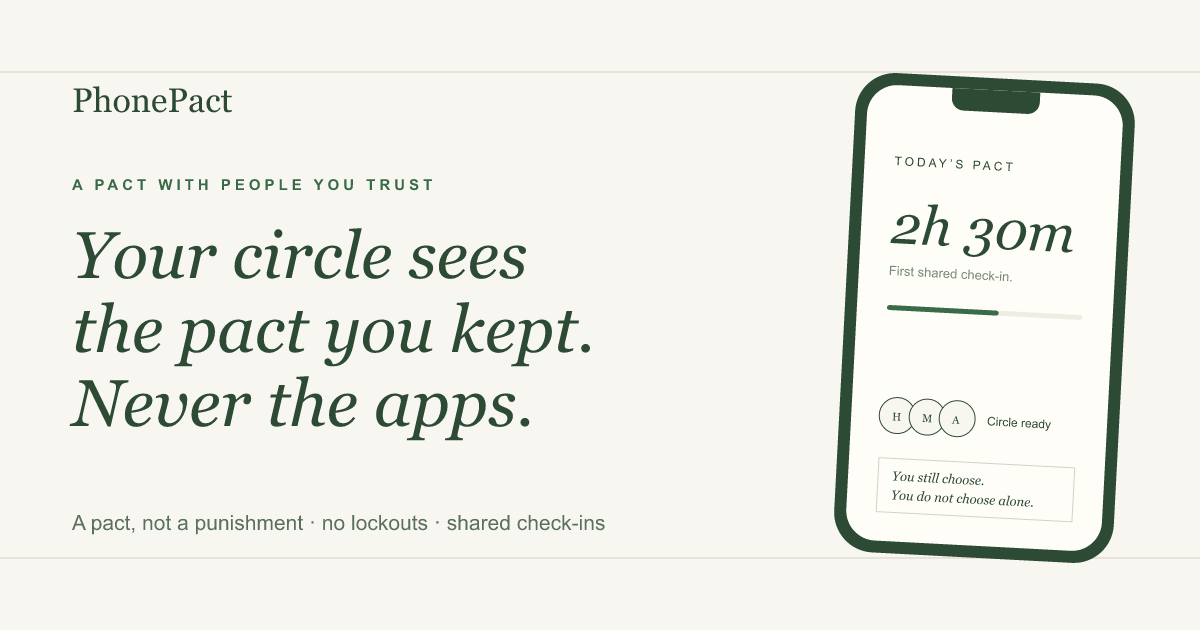
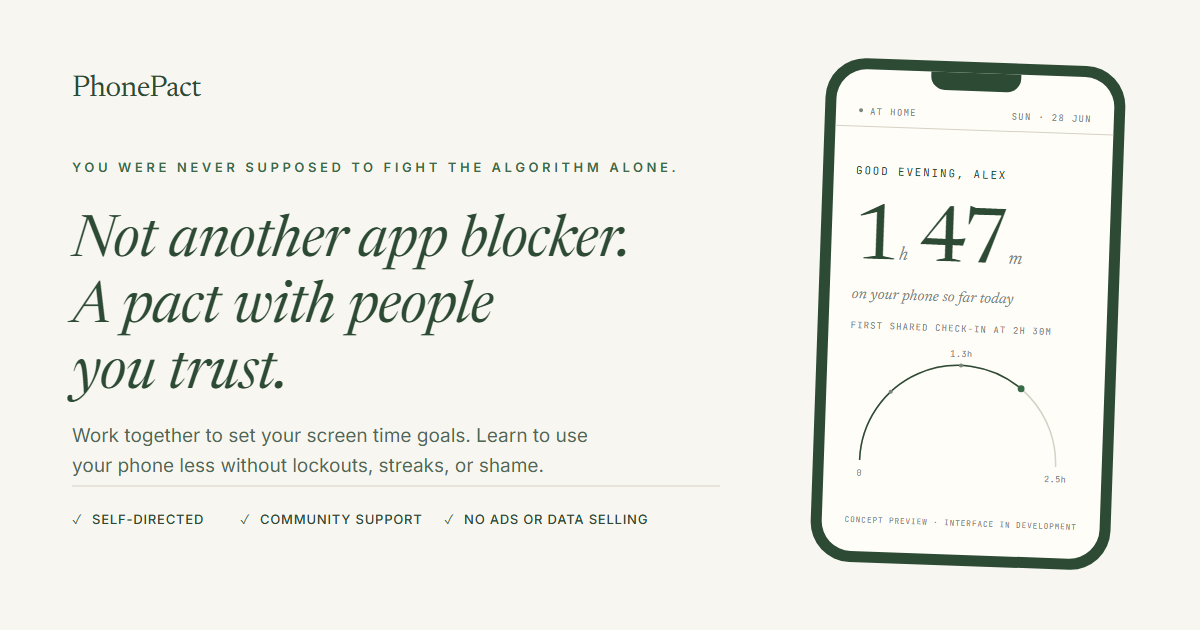
The card opens with the line the slides open with
social-preview.svg is redrawn to match the homepage hero as it now stands:
"You were never supposed to fight the algorithm alone" above "Not another app
blocker. A pact with people you trust", the three principles, and a phone
showing 1h 47m with the first shared check-in at 2h 30m. Every colour is a
:root token from styles.css and every face is the site's own Newsreader /
Inter / JetBrains Mono - the card is not allowed its own palette.

The phone is captioned CONCEPT PREVIEW - INTERFACE IN DEVELOPMENT, which is
the honest label for a drawn UI on a marketing surface.

Cache bust ?v=2 -> ?v=3 across every og:image and twitter:image. The bust is
the whole point of the commit: Twitter, iMessage and Slack cache by URL, so a
re-rendered PNG at an unchanged URL is a card nobody sees change.

social-preview.png is re-rendered from the SVG. The PNG is what actually
ships - nothing serves the SVG - and it must be rendered through an HTML
wrapper with a virtual-time budget, or the screenshot lands before the
webfonts arrive and the card goes out in Georgia and Arial.

diff --git a/blog/why-you-bypass-your-own-app-blocker.html b/blog/why-you-bypass-your-own-app-blocker.html
@@ -4,13 +4,13 @@
 <meta charset="utf-8"/>
 <meta name="viewport" content="width=device-width, initial-scale=1"/>
 <title>Why You Bypass Your Own App Blocker (Every Single Time)</title>
-<meta property="og:image" content="https://getphonepact.com/assets/social-preview.png?v=2"/>
+<meta property="og:image" content="https://getphonepact.com/assets/social-preview.png?v=3"/>
 <meta property="og:image:width" content="1200"/>
 <meta property="og:image:height" content="630"/>
 <meta name="twitter:card" content="summary_large_image"/>
 <meta name="twitter:title" content="Why You Bypass Your Own App Blocker (Every Single Time)"/>
 <meta name="twitter:description" content="It&#x27;s called &quot;Ignore Limit&quot; on one screen and &quot;Forgot Passcode?&quot; on another. Same button, same ending. Why every blocker ships with its own defeat built in, and what has nothing to press."/>
-<meta name="twitter:image" content="https://getphonepact.com/assets/social-preview.png?v=2"/>
+<meta name="twitter:image" content="https://getphonepact.com/assets/social-preview.png?v=3"/>
 <meta name="description" content="It&#x27;s called &quot;Ignore Limit&quot; on one screen and &quot;Forgot Passcode?&quot; on another. Same button, same ending. Why every blocker ships with its own defeat built in, and what has nothing to press."/>
 <link rel="canonical" href="https://getphonepact.com/blog/why-you-bypass-your-own-app-blocker"/>
 <meta property="og:title" content="There&#x27;s a Button on Your Phone That Defeats Every App Blocker Ever Made. You&#x27;ve Already Pressed It."/>

diff --git a/blog/how-to-stop-scrolling-at-night.html b/blog/how-to-stop-scrolling-at-night.html
@@ -4,13 +4,13 @@
 <meta charset="utf-8"/>
 <meta name="viewport" content="width=device-width, initial-scale=1"/>
 <title>How to Stop Scrolling at Night (It&#x27;s Not About Blue Light)</title>
-<meta property="og:image" content="https://getphonepact.com/assets/social-preview.png?v=2"/>
+<meta property="og:image" content="https://getphonepact.com/assets/social-preview.png?v=3"/>
 <meta property="og:image:width" content="1200"/>
 <meta property="og:image:height" content="630"/>
 <meta name="twitter:card" content="summary_large_image"/>
 <meta name="twitter:title" content="How to Stop Scrolling at Night (It&#x27;s Not About Blue Light)"/>
 <meta name="twitter:description" content="Night mode didn&#x27;t fix it because the light was never the main problem. What the phone is actually doing for you at 1am, and how to stop scrolling at night without detonating the thing it&#x27;s suppressing."/>
-<meta name="twitter:image" content="https://getphonepact.com/assets/social-preview.png?v=2"/>
+<meta name="twitter:image" content="https://getphonepact.com/assets/social-preview.png?v=3"/>
 <meta name="description" content="Night mode didn&#x27;t fix it because the light was never the main problem. What the phone is actually doing for you at 1am, and how to stop scrolling at night without detonating the thing it&#x27;s suppressing."/>
 <link rel="canonical" href="https://getphonepact.com/blog/how-to-stop-scrolling-at-night"/>
 <meta property="og:title" content="It&#x27;s 1am. You&#x27;re Exhausted. You&#x27;re Still Scrolling. It Was Never the Blue Light."/>

diff --git a/blog/quit-drinking-porn-gaming-now-addicted-to-phone.html b/blog/quit-drinking-porn-gaming-now-addicted-to-phone.html
@@ -4,13 +4,13 @@
 <meta charset="utf-8"/>
 <meta name="viewport" content="width=device-width, initial-scale=1"/>
 <title>Sober but Addicted to Your Phone: The Replacement Habit</title>
-<meta property="og:image" content="https://getphonepact.com/assets/social-preview.png?v=2"/>
+<meta property="og:image" content="https://getphonepact.com/assets/social-preview.png?v=3"/>
 <meta property="og:image:width" content="1200"/>
 <meta property="og:image:height" content="630"/>
 <meta name="twitter:card" content="summary_large_image"/>
 <meta name="twitter:title" content="Sober but Addicted to Your Phone: The Replacement Habit"/>
 <meta name="twitter:description" content="You got sober, quit porn, or walked away from gaming, and the scrolling moved in overnight. Why the compulsion migrates, why the phone version stays invisible, and what recovery already taught you about fixing it."/>
-<meta name="twitter:image" content="https://getphonepact.com/assets/social-preview.png?v=2"/>
+<meta name="twitter:image" content="https://getphonepact.com/assets/social-preview.png?v=3"/>
 <meta name="description" content="You got sober, quit porn, or walked away from gaming, and the scrolling moved in overnight. Why the compulsion migrates, why the phone version stays invisible, and what recovery already taught you about fixing it."/>
 <link rel="canonical" href="https://getphonepact.com/blog/quit-drinking-porn-gaming-now-addicted-to-phone"/>
 <meta property="og:title" content="Months Sober, and Six Hours a Day on Your Phone. The Relapse Nobody Counts."/>

diff --git a/blog/stop-checking-phone-first-thing-morning.html b/blog/stop-checking-phone-first-thing-morning.html
@@ -4,13 +4,13 @@
 <meta charset="utf-8"/>
 <meta name="viewport" content="width=device-width, initial-scale=1"/>
 <title>Why You Shouldn&#x27;t Check Your Phone First Thing in the Morning</title>
-<meta property="og:image" content="https://getphonepact.com/assets/social-preview.png?v=2"/>
+<meta property="og:image" content="https://getphonepact.com/assets/social-preview.png?v=3"/>
 <meta property="og:image:width" content="1200"/>
 <meta property="og:image:height" content="630"/>
 <meta name="twitter:card" content="summary_large_image"/>
 <meta name="twitter:title" content="Why You Shouldn&#x27;t Check Your Phone First Thing in the Morning"/>
 <meta name="twitter:description" content="Checking your phone before your feet hit the floor doesn&#x27;t just cost the minutes. It calibrates what the whole day has to compete with. Here&#x27;s the dial, and the five-minute gap that resets it."/>
-<meta name="twitter:image" content="https://getphonepact.com/assets/social-preview.png?v=2"/>
+<meta name="twitter:image" content="https://getphonepact.com/assets/social-preview.png?v=3"/>
 <meta name="description" content="Checking your phone before your feet hit the floor doesn&#x27;t just cost the minutes. It calibrates what the whole day has to compete with. Here&#x27;s the dial, and the five-minute gap that resets it."/>
 <link rel="canonical" href="https://getphonepact.com/blog/stop-checking-phone-first-thing-morning"/>
 <meta property="og:title" content="You Check Your Phone Within Seconds of Waking. The Cost Isn&#x27;t the Ten Minutes."/>

diff --git a/blog/why-is-my-attention-span-so-short.html b/blog/why-is-my-attention-span-so-short.html
@@ -4,13 +4,13 @@
 <meta charset="utf-8"/>
 <meta name="viewport" content="width=device-width, initial-scale=1"/>
 <title>Why Is My Attention Span So Short? (And How to Rebuild It)</title>
-<meta property="og:image" content="https://getphonepact.com/assets/social-preview.png?v=2"/>
+<meta property="og:image" content="https://getphonepact.com/assets/social-preview.png?v=3"/>
 <meta property="og:image:width" content="1200"/>
 <meta property="og:image:height" content="630"/>
 <meta name="twitter:card" content="summary_large_image"/>
 <meta name="twitter:title" content="Why Is My Attention Span So Short? (And How to Rebuild It)"/>
 <meta name="twitter:description" content="You can&#x27;t sit through a movie anymore and you think your attention is broken. It isn&#x27;t. It&#x27;s been retrained by systems that harvest it, and the proof is that you can still focus for hours on the right thing."/>
-<meta name="twitter:image" content="https://getphonepact.com/assets/social-preview.png?v=2"/>
+<meta name="twitter:image" content="https://getphonepact.com/assets/social-preview.png?v=3"/>
 <meta name="description" content="You can&#x27;t sit through a movie anymore and you think your attention is broken. It isn&#x27;t. It&#x27;s been retrained by systems that harvest it, and the proof is that you can still focus for hours on the right thing."/>
 <link rel="canonical" href="https://getphonepact.com/blog/why-is-my-attention-span-so-short"/>
 <meta property="og:title" content="Your Attention Span Isn&#x27;t Shrinking. It&#x27;s Being Farmed."/>

diff --git a/blog/nobody-takes-phone-addiction-seriously.html b/blog/nobody-takes-phone-addiction-seriously.html
@@ -4,13 +4,13 @@
 <meta charset="utf-8"/>
 <meta name="viewport" content="width=device-width, initial-scale=1"/>
 <title>When Nobody Takes Your Phone Addiction Seriously</title>
-<meta property="og:image" content="https://getphonepact.com/assets/social-preview.png?v=2"/>
+<meta property="og:image" content="https://getphonepact.com/assets/social-preview.png?v=3"/>
 <meta property="og:image:width" content="1200"/>
 <meta property="og:image:height" content="630"/>
 <meta name="twitter:card" content="summary_large_image"/>
 <meta name="twitter:title" content="When Nobody Takes Your Phone Addiction Seriously"/>
 <meta name="twitter:description" content="You finally admitted your screen time is out of control, and everyone just said &quot;same.&quot; Why the most common addiction is the hardest one to get taken seriously, and how to find one person who will."/>
-<meta name="twitter:image" content="https://getphonepact.com/assets/social-preview.png?v=2"/>
+<meta name="twitter:image" content="https://getphonepact.com/assets/social-preview.png?v=3"/>
 <meta name="description" content="You finally admitted your screen time is out of control, and everyone just said &quot;same.&quot; Why the most common addiction is the hardest one to get taken seriously, and how to find one person who will."/>
 <link rel="canonical" href="https://getphonepact.com/blog/nobody-takes-phone-addiction-seriously"/>
 <meta property="og:title" content="You Admitted Your Phone Use Scares You. They Said &quot;Same.&quot; Here&#x27;s What They Didn&#x27;t Hear."/>

diff --git a/blog/screen-time-report-doesnt-change-anything.html b/blog/screen-time-report-doesnt-change-anything.html
@@ -4,13 +4,13 @@
 <meta charset="utf-8"/>
 <meta name="viewport" content="width=device-width, initial-scale=1"/>
 <title>Why Your Screen Time Report Doesn&#x27;t Change Anything</title>
-<meta property="og:image" content="https://getphonepact.com/assets/social-preview.png?v=2"/>
+<meta property="og:image" content="https://getphonepact.com/assets/social-preview.png?v=3"/>
 <meta property="og:image:width" content="1200"/>
 <meta property="og:image:height" content="630"/>
 <meta name="twitter:card" content="summary_large_image"/>
 <meta name="twitter:title" content="Why Your Screen Time Report Doesn&#x27;t Change Anything"/>
 <meta name="twitter:description" content="Every Sunday the number arrives, you wince, you swipe it away, and nothing changes. Here&#x27;s why after-the-fact awareness can&#x27;t change behavior, and what awareness in the moment looks like."/>
-<meta name="twitter:image" content="https://getphonepact.com/assets/social-preview.png?v=2"/>
+<meta name="twitter:image" content="https://getphonepact.com/assets/social-preview.png?v=3"/>
 <meta name="description" content="Every Sunday the number arrives, you wince, you swipe it away, and nothing changes. Here&#x27;s why after-the-fact awareness can&#x27;t change behavior, and what awareness in the moment looks like."/>
 <link rel="canonical" href="https://getphonepact.com/blog/screen-time-report-doesnt-change-anything"/>
 <meta property="og:title" content="Your Screen Time Report Isn&#x27;t Failing to Change You. It Was Never Trying."/>

diff --git a/blog/is-my-phone-making-my-anxiety-worse.html b/blog/is-my-phone-making-my-anxiety-worse.html
@@ -4,13 +4,13 @@
 <meta charset="utf-8"/>
 <meta name="viewport" content="width=device-width, initial-scale=1"/>
 <title>Is My Phone Making My Anxiety Worse?</title>
-<meta property="og:image" content="https://getphonepact.com/assets/social-preview.png?v=2"/>
+<meta property="og:image" content="https://getphonepact.com/assets/social-preview.png?v=3"/>
 <meta property="og:image:width" content="1200"/>
 <meta property="og:image:height" content="630"/>
 <meta name="twitter:card" content="summary_large_image"/>
 <meta name="twitter:title" content="Is My Phone Making My Anxiety Worse?"/>
 <meta name="twitter:description" content="Sometimes the phone is the anxiety machine. Sometimes it&#x27;s the anesthesia. Most people are running both at once, and the two problems need opposite fixes. A ten-minute test tells you which one you have."/>
-<meta name="twitter:image" content="https://getphonepact.com/assets/social-preview.png?v=2"/>
+<meta name="twitter:image" content="https://getphonepact.com/assets/social-preview.png?v=3"/>
 <meta name="description" content="Sometimes the phone is the anxiety machine. Sometimes it&#x27;s the anesthesia. Most people are running both at once, and the two problems need opposite fixes. A ten-minute test tells you which one you have."/>
 <link rel="canonical" href="https://getphonepact.com/blog/is-my-phone-making-my-anxiety-worse"/>
 <meta property="og:title" content="Is Your Phone Causing Your Anxiety, or Hiding It? Getting This Wrong Is Why Nothing&#x27;s Worked."/>

diff --git a/blog/office-accountability-working-from-home-phone.html b/blog/office-accountability-working-from-home-phone.html
@@ -4,13 +4,13 @@
 <meta charset="utf-8"/>
 <meta name="viewport" content="width=device-width, initial-scale=1"/>
 <title>Can&#x27;t Stay Off Your Phone Working From Home? It Isn&#x27;t Discipline</title>
-<meta property="og:image" content="https://getphonepact.com/assets/social-preview.png?v=2"/>
+<meta property="og:image" content="https://getphonepact.com/assets/social-preview.png?v=3"/>
 <meta property="og:image:width" content="1200"/>
 <meta property="og:image:height" content="630"/>
 <meta name="twitter:card" content="summary_large_image"/>
 <meta name="twitter:title" content="Can&#x27;t Stay Off Your Phone Working From Home? It Isn&#x27;t Discipline"/>
 <meta name="twitter:description" content="An 855-comment thread asked how to stay accountable working from home. The honest answers all pointed at the same missing thing, and it isn&#x27;t discipline."/>
-<meta name="twitter:image" content="https://getphonepact.com/assets/social-preview.png?v=2"/>
+<meta name="twitter:image" content="https://getphonepact.com/assets/social-preview.png?v=3"/>
 <meta name="description" content="An 855-comment thread asked how to stay accountable working from home. The honest answers all pointed at the same missing thing, and it isn&#x27;t discipline."/>
 <link rel="canonical" href="https://getphonepact.com/blog/office-accountability-working-from-home-phone"/>
 <meta property="og:title" content="855 Remote Workers Asked How to Stay Off Their Phones at Home. The Answer Used to Sit Next to Them."/>

diff --git a/blog/adhd-screen-time-limits-dont-work.html b/blog/adhd-screen-time-limits-dont-work.html
@@ -4,13 +4,13 @@
 <meta charset="utf-8"/>
 <meta name="viewport" content="width=device-width, initial-scale=1"/>
 <title>Why Screen Time Limits Don&#x27;t Work for ADHD Brains</title>
-<meta property="og:image" content="https://getphonepact.com/assets/social-preview.png?v=2"/>
+<meta property="og:image" content="https://getphonepact.com/assets/social-preview.png?v=3"/>
 <meta property="og:image:width" content="1200"/>
 <meta property="og:image:height" content="630"/>
 <meta name="twitter:card" content="summary_large_image"/>
 <meta name="twitter:title" content="Why Screen Time Limits Don&#x27;t Work for ADHD Brains"/>
 <meta name="twitter:description" content="You disable your own blockers in seconds and then hate yourself for it. The problem is the design, not your brain. Here&#x27;s what the research on ADHD and rigid blockers actually shows."/>
-<meta name="twitter:image" content="https://getphonepact.com/assets/social-preview.png?v=2"/>
+<meta name="twitter:image" content="https://getphonepact.com/assets/social-preview.png?v=3"/>
 <meta name="description" content="You disable your own blockers in seconds and then hate yourself for it. The problem is the design, not your brain. Here&#x27;s what the research on ADHD and rigid blockers actually shows."/>
 <link rel="canonical" href="https://getphonepact.com/blog/adhd-screen-time-limits-dont-work"/>
 <meta property="og:title" content="You Beat Every App Blocker in Two Seconds. That&#x27;s Not the Failure You Think It Is."/>

diff --git a/blog/how-to-stop-watching-tiktok.html b/blog/how-to-stop-watching-tiktok.html
@@ -4,13 +4,13 @@
 <meta charset="utf-8"/>
 <meta name="viewport" content="width=device-width, initial-scale=1"/>
 <title>How to Stop Watching TikTok (Why It&#x27;s So Hard to Quit)</title>
-<meta property="og:image" content="https://getphonepact.com/assets/social-preview.png?v=2"/>
+<meta property="og:image" content="https://getphonepact.com/assets/social-preview.png?v=3"/>
 <meta property="og:image:width" content="1200"/>
 <meta property="og:image:height" content="630"/>
 <meta name="twitter:card" content="summary_large_image"/>
 <meta name="twitter:title" content="How to Stop Watching TikTok (Why It&#x27;s So Hard to Quit)"/>
 <meta name="twitter:description" content="You don&#x27;t enjoy it anymore and you still can&#x27;t stop. That gap between liking and wanting is engineered, and it&#x27;s also the reason deleting the app keeps failing."/>
-<meta name="twitter:image" content="https://getphonepact.com/assets/social-preview.png?v=2"/>
+<meta name="twitter:image" content="https://getphonepact.com/assets/social-preview.png?v=3"/>
 <meta name="description" content="You don&#x27;t enjoy it anymore and you still can&#x27;t stop. That gap between liking and wanting is engineered, and it&#x27;s also the reason deleting the app keeps failing."/>
 <link rel="canonical" href="https://getphonepact.com/blog/how-to-stop-watching-tiktok"/>
 <meta property="og:title" content="TikTok Isn&#x27;t Even Fun Anymore. You&#x27;re Still on It Every Night. That&#x27;s Not an Accident."/>

diff --git a/blog/average-screen-time-is-mine-normal.html b/blog/average-screen-time-is-mine-normal.html
@@ -5,13 +5,13 @@
 <meta name="viewport" content="width=device-width, initial-scale=1"/>
 <meta name="robots" content="noindex,follow"/>
 <title>What&#x27;s the Average Screen Time? (And Is Yours Normal?)</title>
-<meta property="og:image" content="https://getphonepact.com/assets/social-preview.png?v=2"/>
+<meta property="og:image" content="https://getphonepact.com/assets/social-preview.png?v=3"/>
 <meta property="og:image:width" content="1200"/>
 <meta property="og:image:height" content="630"/>
 <meta name="twitter:card" content="summary_large_image"/>
 <meta name="twitter:title" content="What&#x27;s the Average Screen Time? (And Is Yours Normal?)"/>
 <meta name="twitter:description" content="Average phone screen time runs around 4 to 5 hours a day, but &quot;normal&quot; is the wrong question. The real benchmarks that tell you whether yours is a problem."/>
-<meta name="twitter:image" content="https://getphonepact.com/assets/social-preview.png?v=2"/>
+<meta name="twitter:image" content="https://getphonepact.com/assets/social-preview.png?v=3"/>
 <meta name="description" content="Average phone screen time runs around 4 to 5 hours a day, but &quot;normal&quot; is the wrong question. The real benchmarks that tell you whether yours is a problem."/>
 <link rel="canonical" href="https://getphonepact.com/blog/average-screen-time-is-mine-normal"/>
 <meta property="og:title" content="Average Screen Time Is 4 to 5 Hours a Day. That&#x27;s the Wrong Kind of Reassuring."/>
